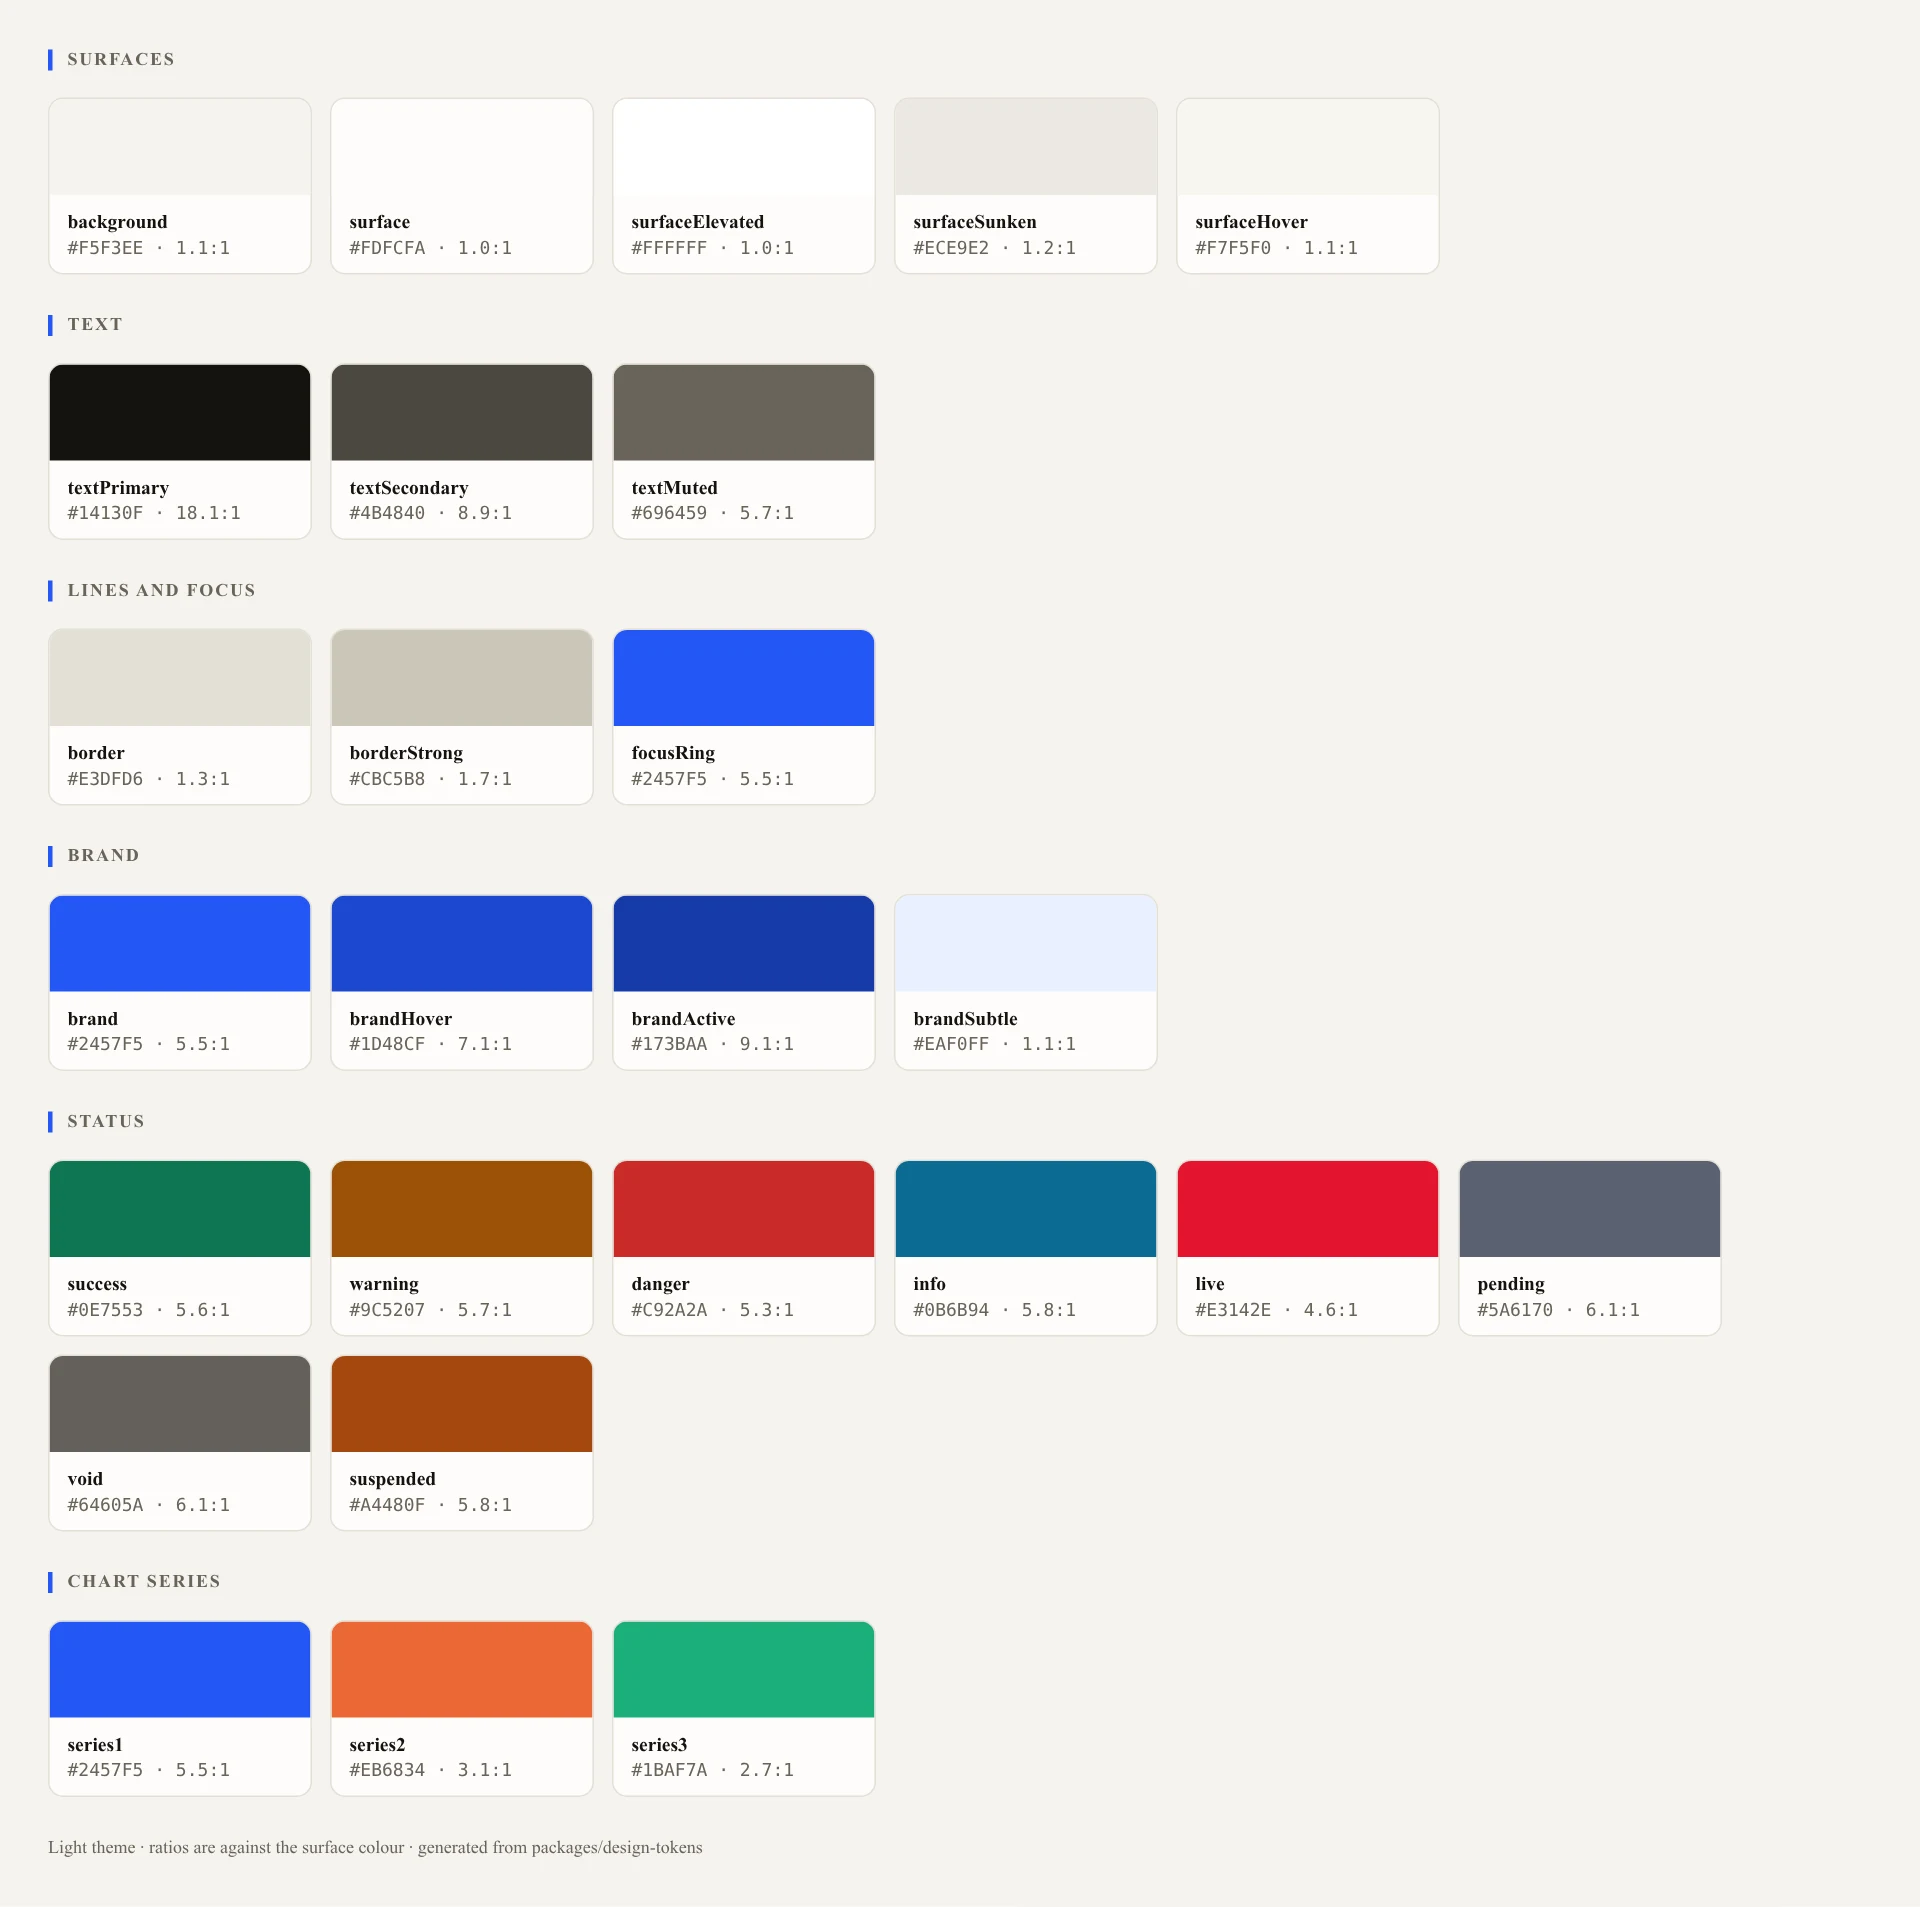
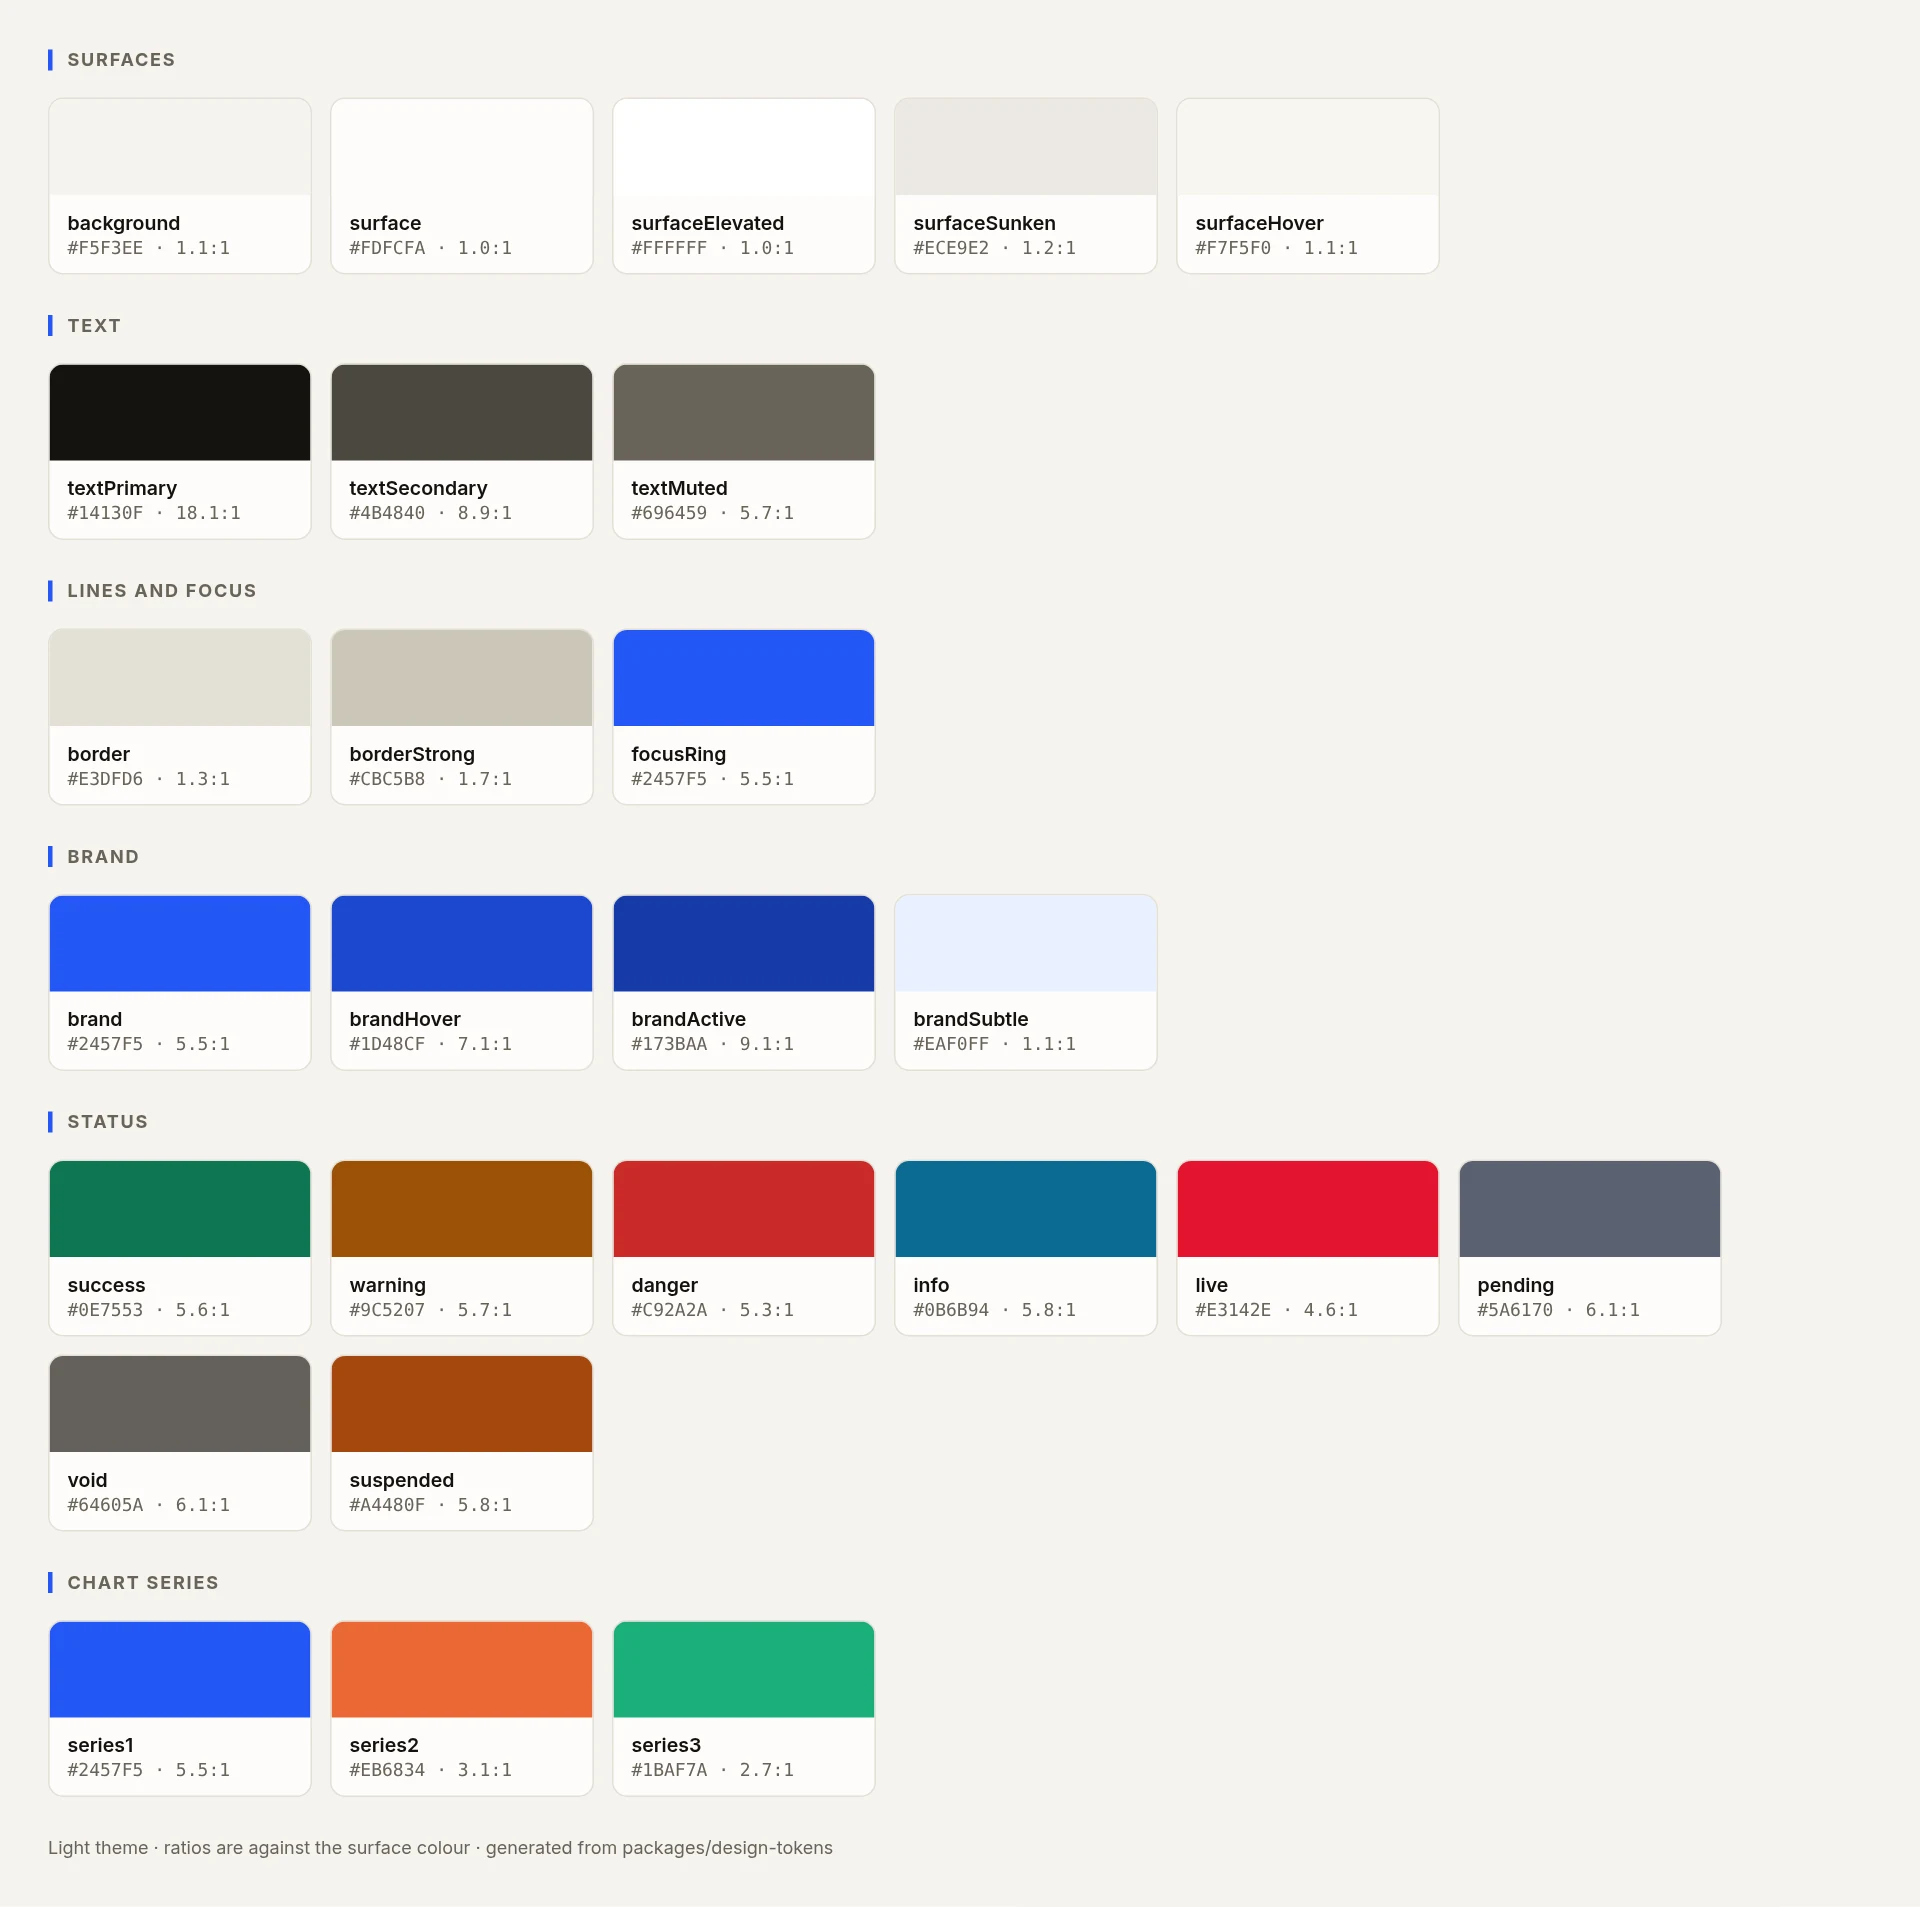
chore(docs): add legal files and update design sheet generation
Add LICENSE and SECURITY.md to the repository. Update the design sheet
rendering script to embed fonts as base64 strings and improve icon
mapping logic. Regenerate design assets (webp) to reflect these changes.

diff --git a/SECURITY.md b/SECURITY.md
@@ -1,0 +1,91 @@
+# Security Policy
+
+BETNG is a portfolio simulation of a virtual football platform. It uses **play money only**: no payment provider, real-money wallet or real-world wagering is, or may be, connected to it. Even so, it is built as if it held real value, and security reports are welcome.
+
+## Reporting a vulnerability
+
+Please report privately. Do not open a public issue for a security problem.
+
+1. Open the repository's **Security** tab on GitHub and choose **Report a vulnerability** (private vulnerability reporting). This creates a private advisory visible only to the maintainer.
+2. Include what you found, the affected component (for example `apps/gateway` or `packages/ui-core`), steps to reproduce, and the impact you believe it has.
+3. If you have a fix in mind, describe it in the advisory rather than in a public pull request.
+
+What to expect:
+
+| Step | Target |
+| --- | --- |
+| Acknowledgement | within 3 working days |
+| First assessment | within 7 working days |
+| Fix or mitigation for a confirmed issue | as soon as practical, prioritised by severity |
+| Credit | offered in the advisory once it is published, unless you prefer otherwise |
+
+Please test only against your own local copy. Do not run automated scanners, load tests or social-engineering attempts against anyone else's deployment.
+
+## Supported versions
+
+| Version | Supported |
+| --- | --- |
+| `main` (0.1.x) | yes |
+| anything older | no |
+
+## Scope
+
+In scope: the gateway, the TypeScript and Python services, the shared contracts and SDK, and the web, mobile, TV, shop and admin clients in this repository.
+
+Out of scope: the development stand-in (`packages/mock-data`, never shipped in staging or production bundles), the local Docker infrastructure defaults, demo accounts and the fixed development codes, and findings that need physical access to a developer's machine.
+
+## Security model
+
+The platform is authoritative and the clients are untrusted. Every rule below is enforced by the backend and proven by a test. The client-side behaviour is presentation only.
+
+### Platform
+
+| Control | How it is enforced | Proven by |
+| --- | --- | --- |
+| One public edge | Clients reach only the gateway (`/api/v1`) and the realtime endpoint. Internal REST (`/internal/*`) and `POST /rpc` are never proxied. | `apps/gateway/tests/gateway.test.ts` |
+| Actor identity | The gateway resolves the bearer token, strips every inbound `x-betng-*` header and rebuilds the actor headers from the session. Services never trust a user id from a path or body over the actor. | `gateway.test.ts` (forged actor headers dropped), e2e step 22 |
+| Service-to-service trust | RPC and actor headers are honoured only with `x-betng-internal-token`, compared in constant time. Production refuses to start without it, with a short one, or with the `.env.example` placeholder. | e2e step 22 (RPC without the token refused) |
+| Least privilege in the database | One schema and one login per service; a service writes only its own schema. The analytics login is read-only. | `services/odds/tests/test_read_model.py`, `services/analytics/tests/test_security.py` |
+| Credentials | Sessions are random tokens stored as SHA-256. Passwords and PINs are scrypt hashes. Admin 2FA is TOTP with replay refusal. Repeated failures lock the account. | `apps/services/identity/tests/*` |
+| Authorisation | Every service re-checks the actor kind and permission and scopes data to the actor (roles: customer; shop OWNER, MANAGER, CASHIER; admin SUPER_ADMIN, OPERATIONS, RISK_ANALYST, SUPPORT). | `apps/services/identity/tests/rbac.test.ts`, e2e step 17 |
+| Money | Integer kobo end to end (`BIGINT`), integer payout arithmetic, append-only ledgers, idempotency keys on every credit. | `apps/services/wallet/tests/ledger.test.ts`, `apps/services/settlement/tests/payout.test.ts` |
+| Bet integrity | Client-sent odds, stake, user id and role are ignored or re-checked. Odds are stored at acceptance and settlement pays on them. `idempotency-key` makes a repeated submission answer the original bet and move no money. | `apps/services/betting/tests/placement.test.ts`, e2e steps 7 and 21 |
+| Result integrity | A result is immutable (database triggers reject UPDATE, DELETE and TRUNCATE). No route sets a score or picks a winner, and a re-run is refused as `RESULT_IMMUTABLE`. | `services/simulation/tests/test_persistence.py`, e2e steps 11, 19 and 20 |
+| Result secrecy | The seed is `HMAC-SHA256(SIMULATION_SEED_SECRET, …)`, so a result cannot be computed from the source before betting closes. Events are revealed only as the match clock reaches them. | `services/simulation/tests/test_seed_secret.py`, `test_rest.py`, e2e step 10 |
+| Rate limits and headers | Login and other sensitive routes are rate limited (Redis counters). API responses carry `Content-Security-Policy: default-src 'none'`, `X-Frame-Options: DENY`, `X-Content-Type-Options: nosniff` and `Referrer-Policy: no-referrer`. CORS answers only the configured origins, never `*`. | `apps/gateway/src/middlewares/securityHeaders.middleware.ts`, `cors.middleware.ts`, `gateway.test.ts` |
+
+### Clients
+
+| Control | Where |
+| --- | --- |
+| The browser knows only two addresses: the public gateway and the public realtime endpoint. No service, database or Redis URL, and no secret, is ever configured in a client. Every `VITE_` variable is public by definition. | `packages/ui-core/src/runtime/clientEnv.ts` |
+| Staging and production builds always use the platform. The development stand-in is loaded through a dynamic import that Vite removes from deployed bundles, and `pnpm verify` fails if a production bundle contains it. | `apps/*/src/services/runtime.ts`, `scripts/verify.sh` |
+| Session tokens live in `sessionStorage` (web, shop, admin) or in memory only (mobile, since AsyncStorage is not an encrypted store). Passwords and PINs are never stored. | `apps/*/src/services/runtime.ts` |
+| A rejected or expired token ends the session everywhere and the realtime connection is replaced. | `packages/ui-core/src/session.ts`, `platformClients.ts` |
+| Roles and permissions come only from the platform's session. Guards hide what a role cannot use, but the platform enforces every permission again. | `apps/admin`, `apps/shop` |
+| The frontend never decides a result, price, payout, balance, risk decision or bet acceptance, and never updates them optimistically. A slip's return is labelled an estimate until the platform accepts the bet. | `docs/frontend-architecture.md` |
+| Server error text is never shown for a 5xx or a proxy page, and every error carries a request id to quote to support. | `packages/ui-core/src/adapters/errors.ts`, `packages/client-sdk/src/rest/request.ts` |
+| The client logger redacts credentials, tokens, one-time codes, balances, stakes and personal fields before any sink sees them. | `packages/ui-core/src/logger.ts` |
+| No `dangerouslySetInnerHTML`. Club crest images are accepted only from http(s) or relative URLs and fall back to the generated crest. Colours in crest specs that are not hex are replaced, never emitted. | `packages/ui-web/src/teams/TeamCrest.tsx`, `packages/brand/src/crest` |
+| Every destructive admin action needs a confirmation and a written reason, and is audited by the platform. | `apps/admin/tests/safety/*` |
+
+## Proof
+
+The trust boundary and integrity rules run end to end against the real services on every `pnpm e2e`. Steps 7, 10, 11, 17, 19, 20, 21 and 22 are the security-relevant ones:
+
+![End-to-end scenario: 22 steps passed](docs/images/proof/backend-e2e-scenario.webp)
+
+The gateway and service suites (identity, RBAC, forged headers, ledgers, idempotency) and the client error, session and logger rules:
+
+![TypeScript service suites: 386 tests passed](docs/images/proof/backend-ts-tests.webp)
+
+![Client data-layer suites including error redaction and resilience](docs/images/proof/data-layer-tests.webp)
+
+## Known limitations
+
+These are open design gaps, not undisclosed vulnerabilities:
+
+- The realtime endpoint serves public match channels only and does not authenticate connections yet. Account data (bets, wallet, notifications) is therefore read over authenticated REST, never pushed. The client already supports an authenticated socket for when the service does (`docs/realtime.md`).
+- The realtime endpoint is reached directly in development; in a deployment it belongs behind the same edge, origin and rate rules as the gateway.
+- The static front-ends set no Content-Security-Policy of their own; add one at the web server or CDN that serves them.
+- Local development credentials in `.env.example` and the demo seed are placeholders. Production refuses to start with them.
